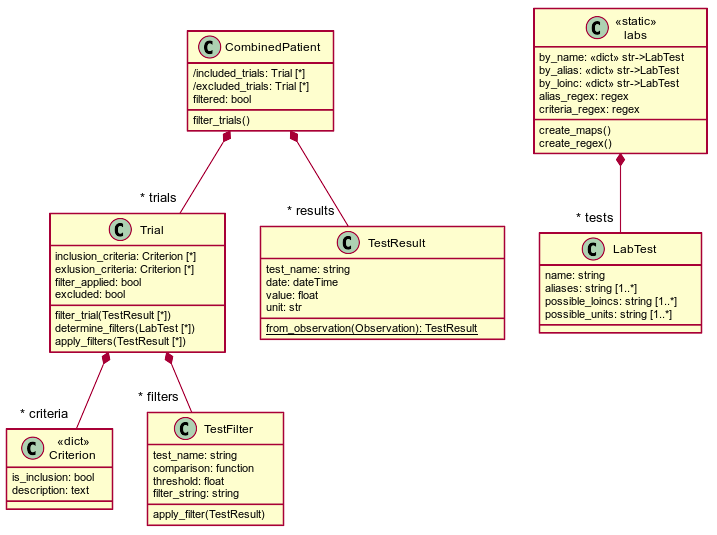
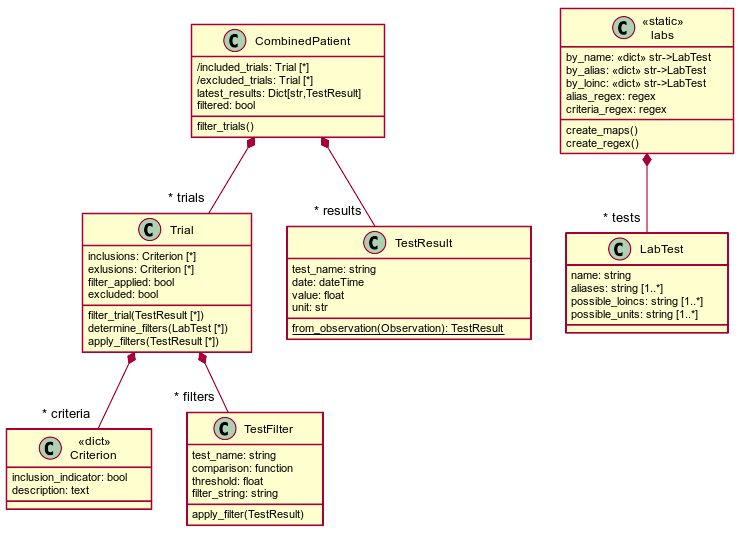
filter begin try TypedDict

diff --git a/hacktheworld.py b/hacktheworld.py
@@ -3,7 +3,8 @@ import logging
 import sys
 import umls
 import requests as req
-from typing import Dict, List, Optional
+from typing import Dict, List, Optional, Union
+from mypy_extensions import TypedDict 
 from datetime import date
 from distances import distance
 from zipcode import Zipcode
@@ -12,7 +13,6 @@ from apis import VaApi
 from fhir import Observation
 from labtests import labs, LabTest
 from datetime import datetime
-
 import json
 
 class Patient:
@@ -202,15 +202,18 @@ class Trial:
         self.official = trial_json['official_title']
         self.summary = trial_json['brief_summary']
         self.description = trial_json['detail_description']
-        self.eligibility = trial_json['eligibility']['unstructured']
-        self.inclusions = [criterion['description'] for criterion in self.eligibility if criterion['inclusion_indicator']]
-        self.exclusions = [criterion['description'] for criterion in self.eligibility if not criterion['inclusion_indicator']]
+        self.eligibility: Dict[str, Union[bool, str]] = trial_json['eligibility']['unstructured']
+        self.inclusions: Dict[str, Union[bool, str]] = [criterion['description'] for criterion in self.eligibility if criterion['inclusion_indicator']]
+        self.exclusions: Dict[str, Union[bool, str]] = [criterion['description'] for criterion in self.eligibility if not criterion['inclusion_indicator']]
         self.measures = trial_json['outcome_measures']
         self.pi = trial_json['principal_investigator']
         self.sites = trial_json['sites']
         self.population = trial_json['study_population_description']
         self.diseases = trial_json['diseases']
         self.filter_condition: list = []
+
+    def determine_filters(self) -> None:
+        pass
 
 
 class CombinedPatient:

diff --git a/filter.py b/filter.py
@@ -1,0 +1,6 @@
+
+class TestFilter:
+    
+    def __init__(self):
+        pass
+

diff --git a/models/trial_model.md b/models/trial_model.md
@@ -10,12 +10,13 @@ markdown:
     class CombinedPatient {
         /included_trials: Trial [*]
         /excluded_trials: Trial [*]
+        latest_results: Dict[str,TestResult]
         filtered: bool
         filter_trials()
     }
     class Trial {
-        inclusion_criteria: Criterion [*]
-        exlusion_criteria: Criterion [*]
+        inclusions: Criterion [*]
+        exlusions: Criterion [*]
         filter_applied: bool
         excluded: bool
         filter_trial(TestResult [*])
@@ -23,7 +24,7 @@ markdown:
         apply_filters(TestResult [*])
     }
     class Criterion <<dict>> {
-        is_inclusion: bool
+        inclusion_indicator: bool
         description: text
     }
     class TestFilter {
@@ -59,7 +60,7 @@ markdown:
     CombinedPatient *-- "~* trials" Trial
     CombinedPatient *-- "~* results" TestResult
     Trial *-- "~* filters" TestFilter 
-    Trial *-- "~* criteria" Criterion 
+    Trial *-- "~* eligibility" Criterion 
     labs *-- "~* tests" LabTest 
 @enduml
 ```

diff --git a/models/output.md b/models/output.md
@@ -1,4 +1,4 @@
   
 
-![](../assets/c65d8fc797d6c006c38e4e476e3c594b0.png?0.0008821550399169542)  
+![](../assets/c65d8fc797d6c006c38e4e476e3c594b0.png?0.2647677058322737)  
   
